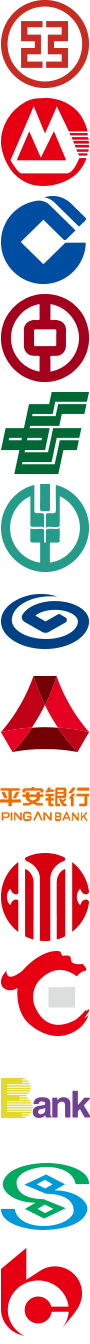
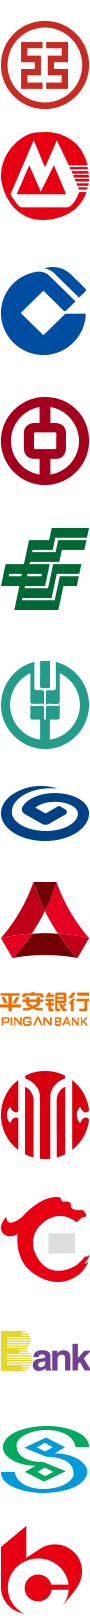
修改文件目录 修改手机号码校验规则

diff --git a/src/styles/bind-card.scss b/src/styles/bind-card.scss
@@ -57,55 +57,50 @@ body{
   left:.3rem;
   width:.8rem;
   height:.8rem;
-  background: url(../images/result_bank.png) no-repeat .08rem .08rem;
-  background-size: 86%;
+  background: url(../images/result_bank.png) no-repeat .06rem -.1rem;
+  background-size: 90%;
 }
+
 .CEB span{
-  background-position: .08rem -8rem;
+  background-position: .06rem -10.4rem;
 }
 .GDB span{
-  background-position: .08rem -5.05rem;
+  background-position: .06rem -6.95rem;
 }
 .ABC span{
-  background-position: .08rem -3.65rem;
+  background-position: .06rem -5.23rem;
 }
 .PAB span{
-  background-position: .02rem -6.5rem;
-  background-size: 97%;
+  background-position: .04rem -8.2rem;
+  background-size: 96%;
 }
 .CIB span{
-  background-position: .06rem -4.8rem;
+  background-position: .035rem -6.4rem;
   background-size: 94%;
 }
 .PSBC span{
-  background-position: .08rem -3.2rem;
-  background-size: 94%;
+  background-position: .06rem -4.15rem;
 }
 .CMB span{
-  background-position: .06rem -0.75rem;
-  background-size: 92%;
+  background-position: .06rem -1.0rem;
 }
 .BOC span{
-  background-position: .06rem -2.3rem;
-  background-size: 90%;
+  background-position: .06rem -3.13rem;
 }
 .CITIC span{
-  background-position: .06rem -6.75rem;
-  background-size: 90%;
+  background-position: .06rem -8.5rem;
 }
 .CCB span{
-  background-position: .06rem -1.54rem;
-  background-size: 90%;
+  background-position: .06rem -2.08rem;
 }
 .HXB span{
-  background-position: .06rem -7.9rem;
-  background-size: 94%;
+  background-position: .06rem -9.5rem;
 }
 .CMBC span{
-  background-position: .08rem -8.72rem;
+  background-position: .06rem -11.25rem;
 }
 .BCM span{
-  background-position: .08rem -9.5rem;
+  background-position: .08rem -12.15rem;
 }
 
 .check-bank-card{

diff --git a/src/js/components/BindcardForm/writePhone.jsx b/src/js/components/BindcardForm/writePhone.jsx
@@ -78,7 +78,7 @@ class WritePhone extends React.Component {
     let currentVal=e.target.value;
     CONFIGS.bindCard.phoneNum=currentVal;
 
-    if( (currentVal.length===1&&currentVal!=='1') || (currentVal.length===2&&!/^1[3578]/.test(currentVal)) || (currentVal.length===3&&!CONFIGS.userWriteThreeDigits.test(currentVal)) ){
+    if( currentVal.length===1&&currentVal!=='1' ){
       refTelErrorMsg.classList.remove('n');//显示手机号错误提示
       CONFIGS.bindCard.showTelErrMsg=true;
       return;
@@ -123,8 +123,7 @@ class WritePhone extends React.Component {
       if(defaultPhoneNum){
         return <input type="button" className={styles.infoInput + ' ' + styles.userPhone} value={defaultPhoneNum} />;
       }else{
-        return <input type="tel" className={styles.infoInput + ' ' + styles.userPhone} placeholder="请输入该银行卡预留的手机号"
-                      /*onInput={this.telRegex.bind(this)} onBlur={this.telBlur.bind(this)}*/ defaultValue={CONFIGS.bindCard.phoneNum} maxLength="11" ref="refTelInput"/>;
+        return <input type="tel" className={styles.infoInput + ' ' + styles.userPhone} placeholder="请输入该银行卡预留的手机号" defaultValue={CONFIGS.bindCard.phoneNum} maxLength="11" ref="refTelInput"/>;
       }
     };
 

diff --git a/src/js/components/BindcardForm/formWrap.jsx b/src/js/components/BindcardForm/formWrap.jsx
@@ -2,7 +2,7 @@ import React, {Component} from 'react';
 import styles from './index.scss';
 import {withRouter } from 'react-router';
 
-import CityWrapper from '../selectCity/index.jsx';
+import CityWrapper from '../SelectCity/index.jsx';
 
 import {Toast} from 'antd-mobile';
 
@@ -36,6 +36,8 @@ class FormWrap extends React.Component {
     const ln=location;
     if(CONFIGS.isReload){
       CONFIGS.isReload=false;
+      console.log(ln.href);
+      console.log(CONFIGS.referrerUrl);
       ln.href=ln.href+'?'+CONFIGS.referrerUrl;
       ln.reload();
     }
@@ -73,14 +75,12 @@ class FormWrap extends React.Component {
 
     refBankCard.onblur=(e)=>{
       setTimeout(()=>{//解决与click冲突问题
-        console.log(new Date().getTime()+'--blur');
         refBankCardClear.classList.add('n');
         this.bankNumBlur(e);
       },100);
     };
 
     refBankCardClear.onclick=()=>{
-      console.log(new Date().getTime()+'--click');
       refBankCard.value='';
       refBankCardClear.classList.add('n');
 

diff --git a/src/js/components/BindcardForm/index.jsx b/src/js/components/BindcardForm/index.jsx
@@ -4,8 +4,8 @@ import styles from './index.scss';
 
 import {Toast} from 'antd-mobile';
 
-import SwitchBtn from '../switchBtn/index.jsx';
-import Contract from '../setContract/index.jsx';
+import SwitchBtn from '../SwitchBtn/index.jsx';
+import Contract from '../SetContract/index.jsx';
 import WritePhone from './writePhone.jsx';
 import FormWrap from './formWrap.jsx';
 
@@ -34,7 +34,6 @@ class Form extends Component {
   }
 
   componentDidMount() {
-    _paq.push(['trackEvent', 'C_Page', 'E_P_BindCard']);
 
       //绑定事件
     this.bindEvent();
@@ -51,7 +50,7 @@ class Form extends Component {
   }
 
   async getUserInfo(){
-    let getContractUrl=CONFIGS.basePath+'api/user?kissoId='+CONFIGS.ssoId;
+    let getContractUrl=CONFIGS.basePath+'user?kissoId='+CONFIGS.ssoId;
     let userPhone='';
 
     //显示loading图片

diff --git a/src/js/config.js b/src/js/config.js
@@ -55,7 +55,7 @@ module.exports = {
     s: '借款',
     r: '还款'
   },
-  userWritePhoneRegx:/^1([358]\d|7[^017])\d{8}$/,
+  userWritePhoneRegx:/^1\d{10}$/,// /^1([358]\d|7[^017])\d{8}$/
   userWriteThreeDigits:/^1([358]\d|7[^017])/,
   chineseCharRegx:/[\u0391-\uFFE5]+/,
   chinaMobileRegx: /^1(3[4-9]|5[012789]|8[23478]|4[7]|7[8])\d{8}$/, //中国移动

diff --git a/src/js/containers/SupportCard.jsx b/src/js/containers/SupportCard.jsx
@@ -75,7 +75,7 @@ export default class Rebind extends Component {
   }
 
   render() {
-    let props = {title: '选择开户行'};
+    let props = {title: '查看支持银行'};
     let allData = this.state.bankJson;
     let bankObj = {
       'ICBC': '工商银行',

diff --git a/src/js/containers/Home.jsx b/src/js/containers/Home.jsx
@@ -11,6 +11,10 @@ class Home extends Component {
     };
   }
 
+  componentDidMount(){
+    _paq.push(['trackEvent', 'C_Page', 'E_P_BindCard']);
+  }
+
   setLoading(status){
     this.setState({
       loadingShowStatus:status
